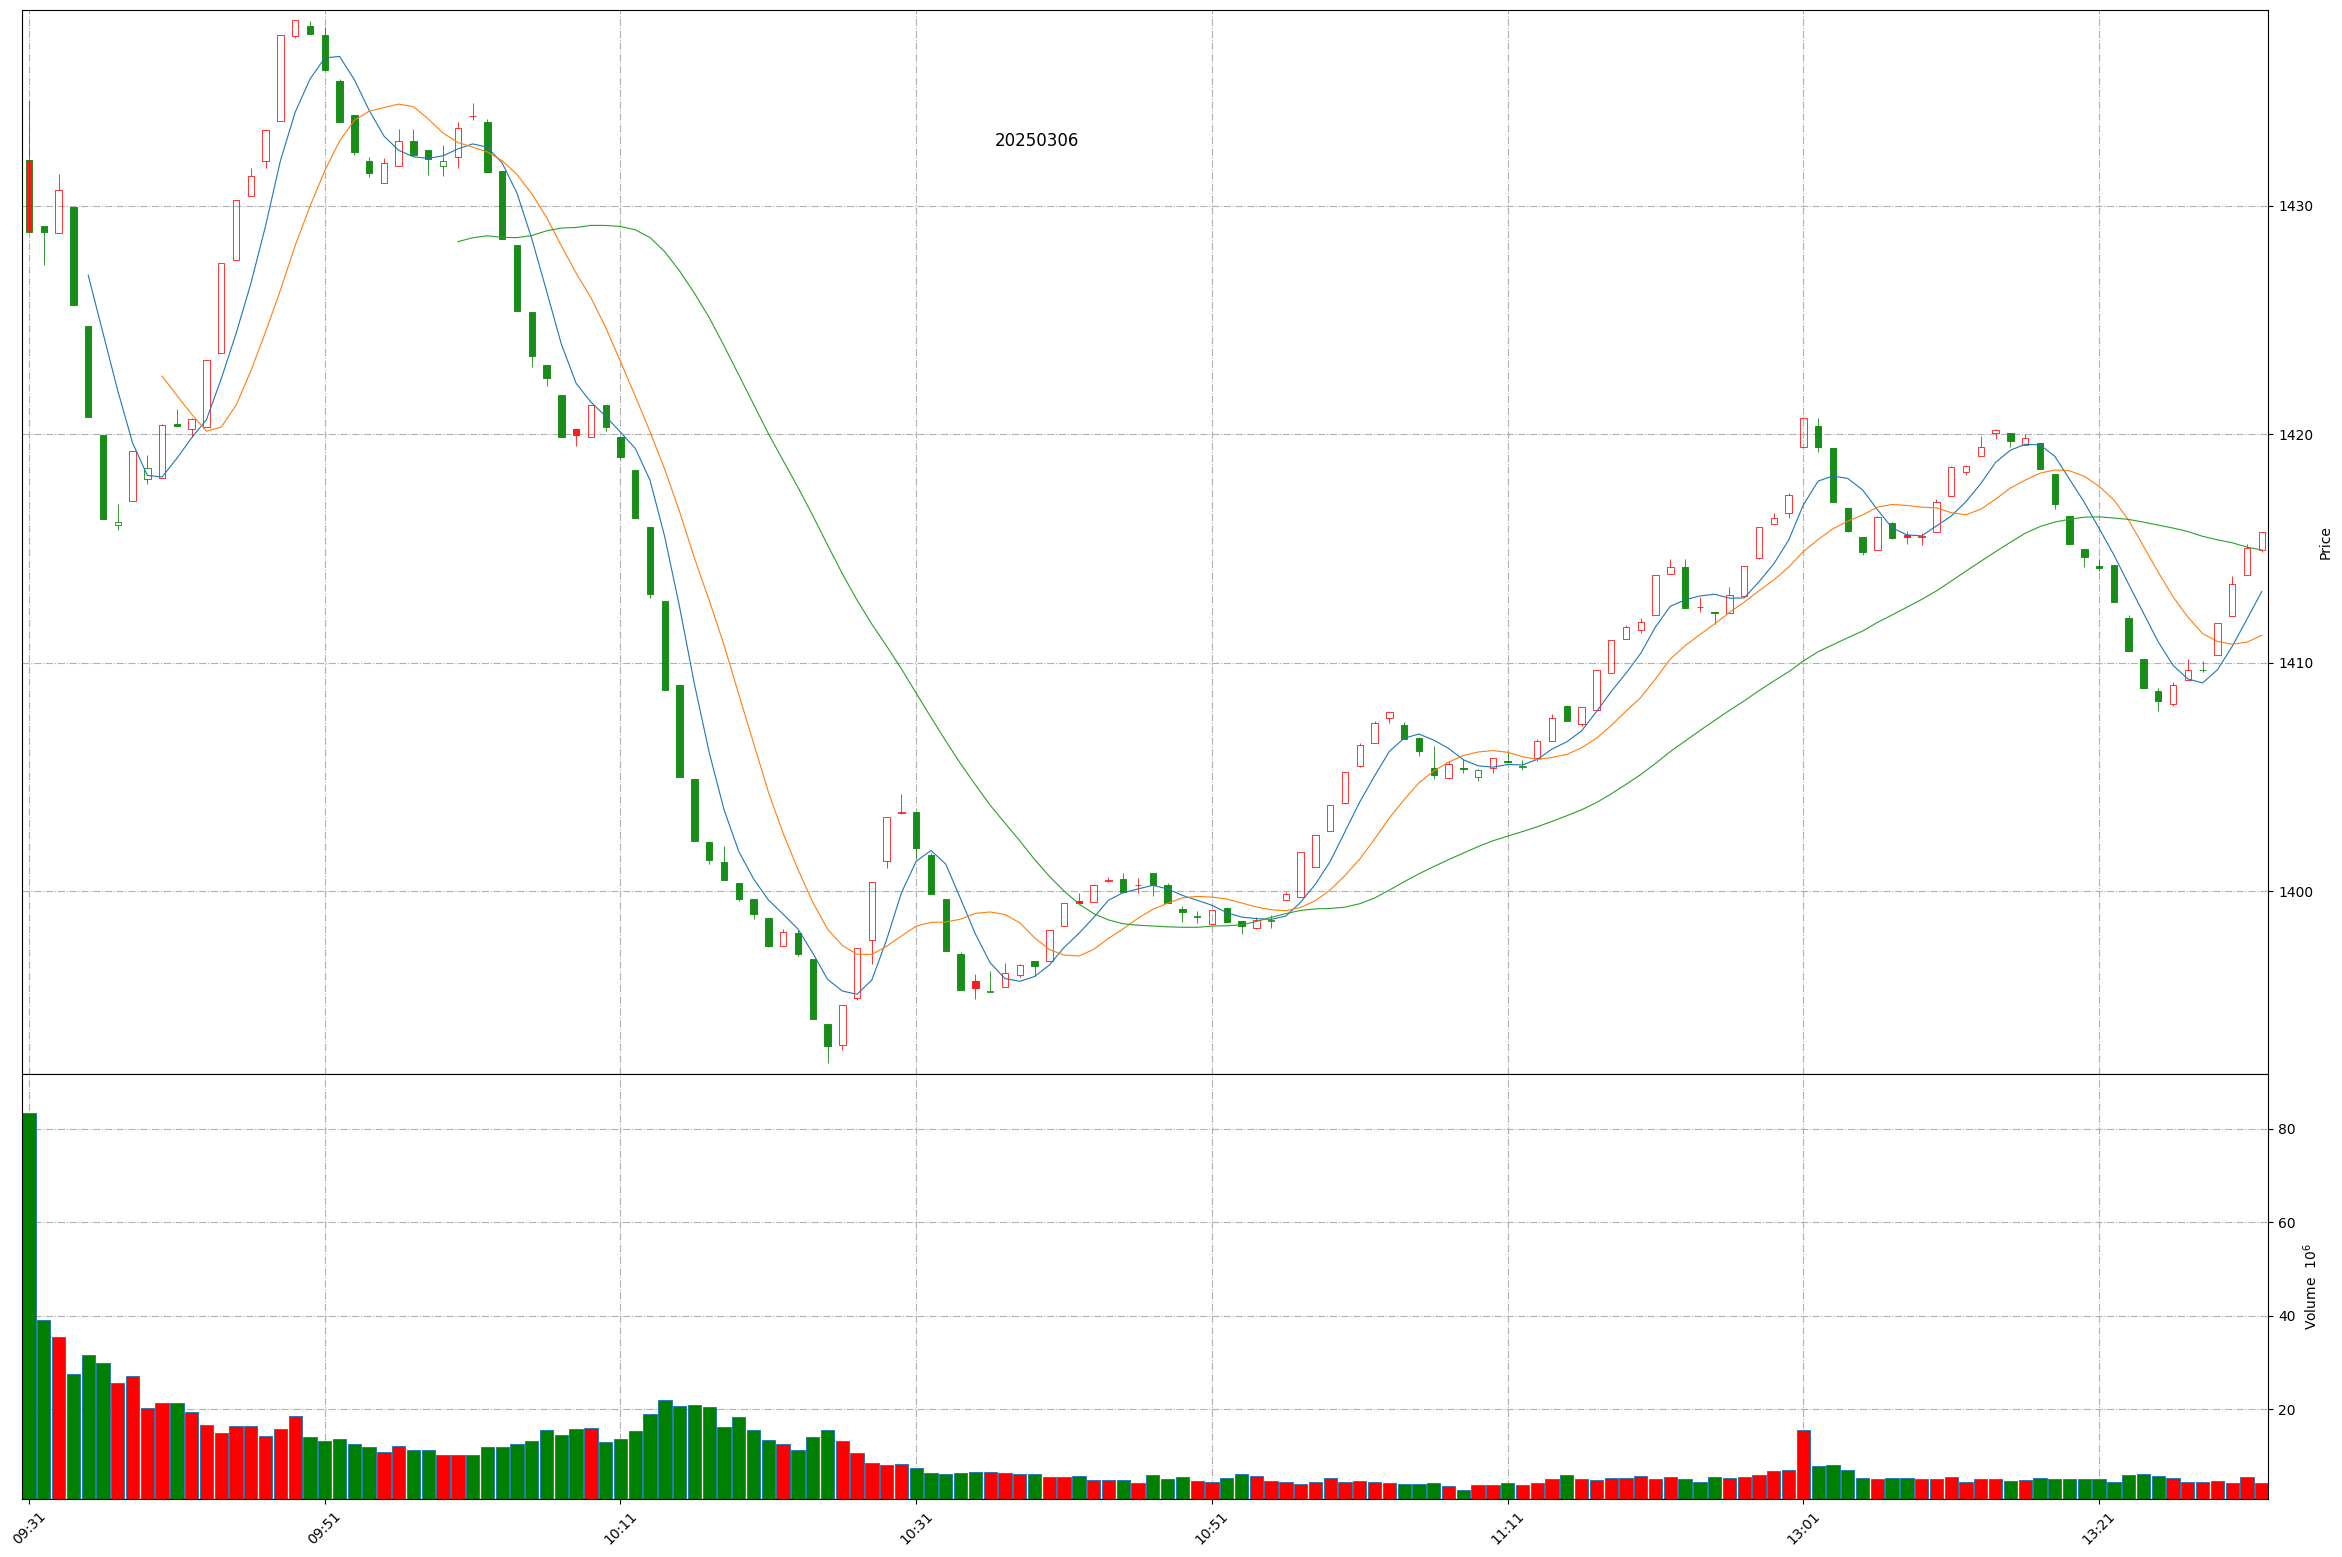
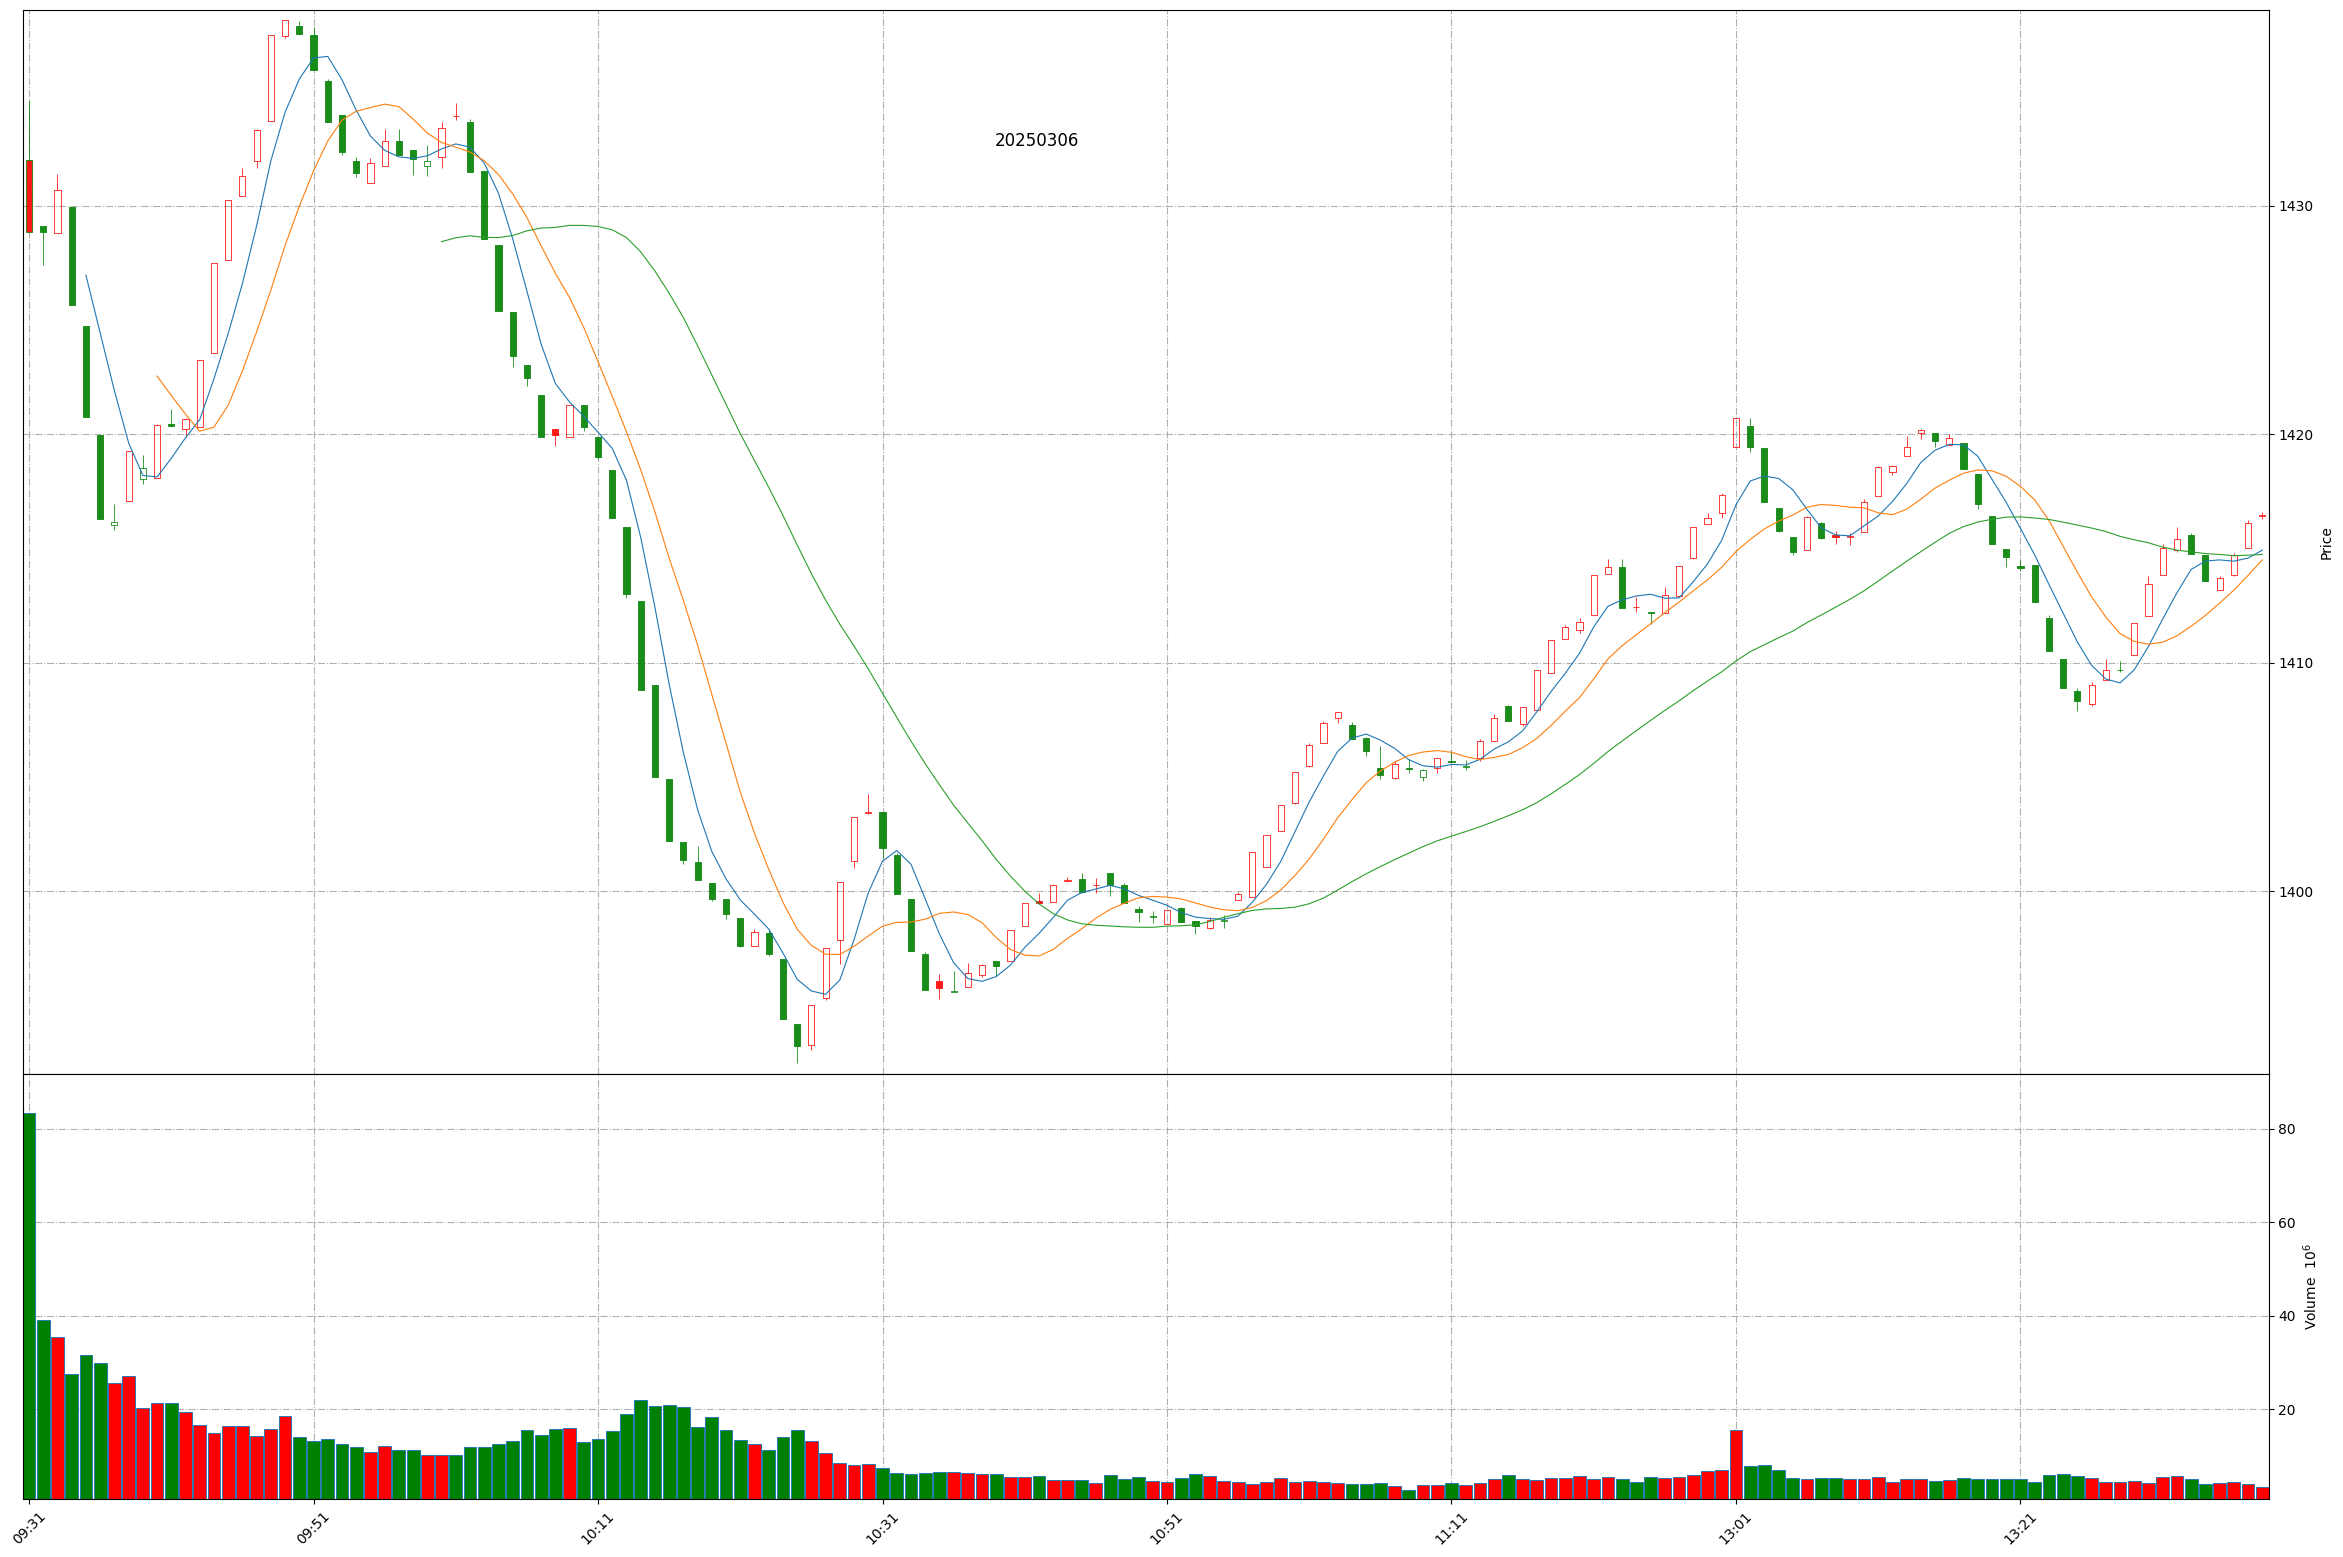
Github action update at 2025-03-06 13:37:51.

diff --git a/README.md b/README.md
@@ -1,11 +1,11 @@
 
 # Daily-A-share-market-quotes 每日 A 股指数（5min 更新）- 20250306
 
-### 上证指数 20250306 13:32
+### 上证指数 20250306 13:37
 ![](./fig/2025/3/20250306-sh000001.png)
 
-### 深证成指 20250306 13:32
+### 深证成指 20250306 13:37
 ![](./fig/2025/3/20250306-sz399001.png)
 
-### 北证50 20250306 13:32
+### 北证50 20250306 13:37
 ![](./fig/2025/3/20250306-bj899050.png)
